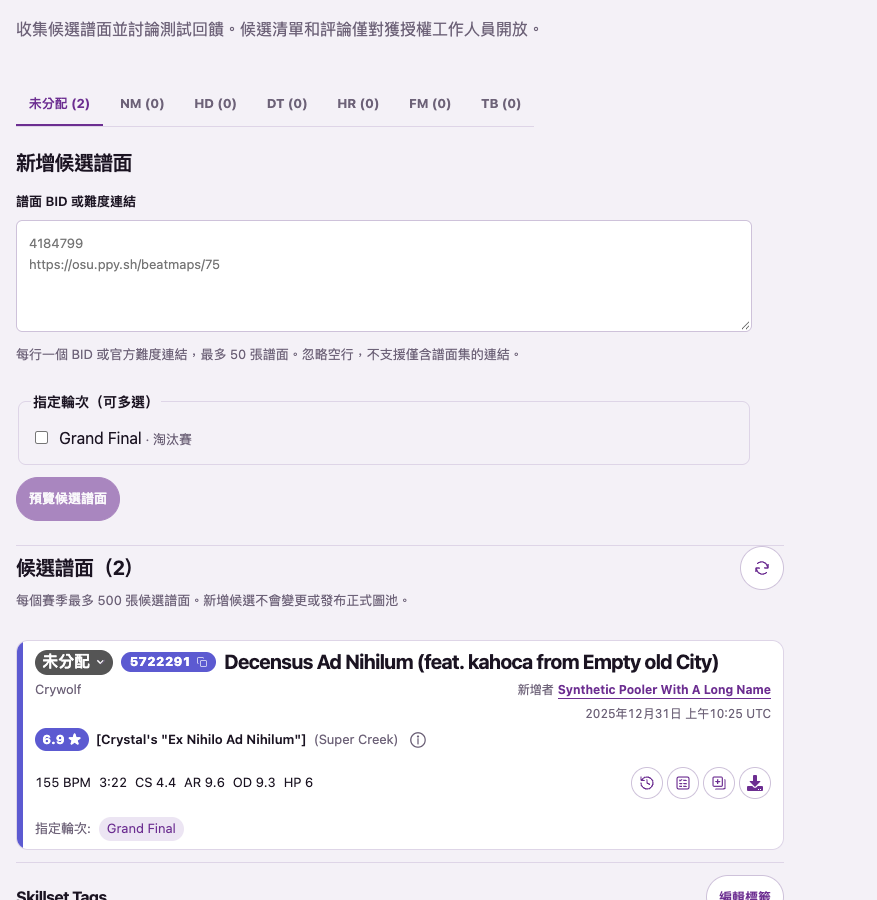
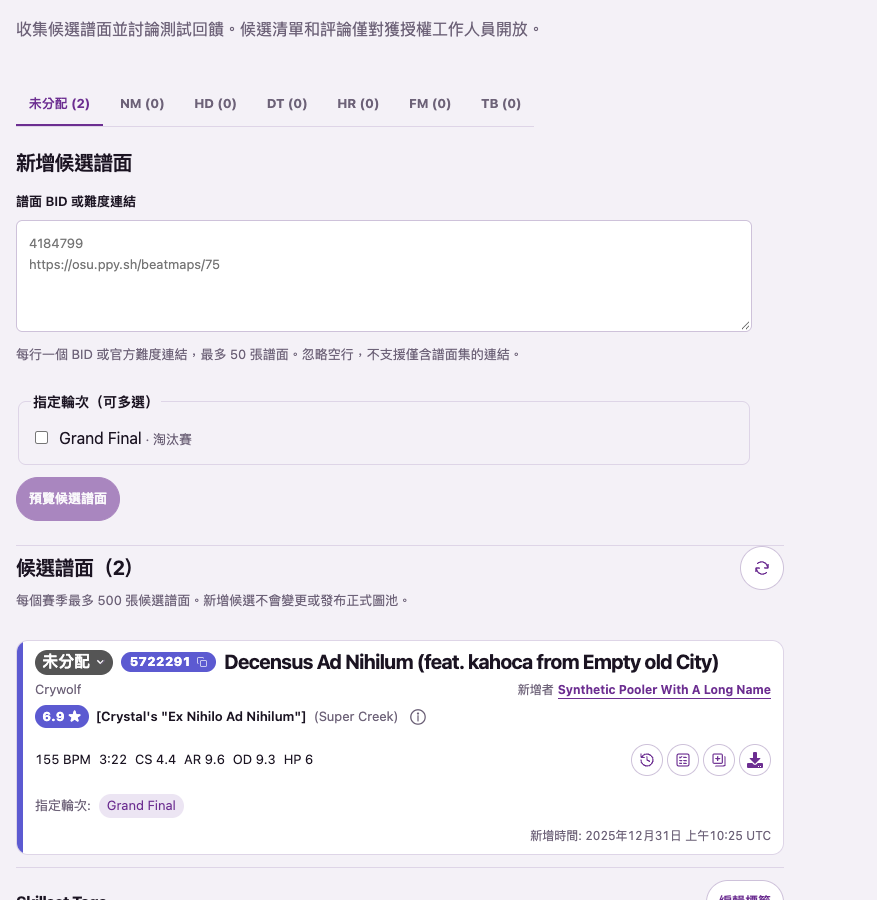
fix(mappool): move candidate creation time to final card row (#965)

Changed region(s): [[0.0, 0.7778, 0.8928, 1.0], [0.6773, 0.7778, 0.862, 0.8089]]

diff --git a/src/components/mappool-workbench.tsx b/src/components/mappool-workbench.tsx
@@ -1062,27 +1062,32 @@ export function SelectionWorkbench({
                     openLabel={`${c.metadata.artist} — ${c.metadata.title}`}
                     note={tr("★ base")}
                     footer={
-                      <div
-                        className={styles.assignedRounds}
-                        role="group"
-                        aria-label={tr("Intended rounds")}
-                      >
-                        <span>{tr("Intended rounds")}:</span>
-                        {c.roundIds.length ? (
-                          data.rounds
-                            .filter((round) => c.roundIds.includes(round.id))
-                            .map((round) => (
-                              <span
-                                key={round.id}
-                                className={styles.assignedRound}
-                              >
-                                {round.name}
-                              </span>
-                            ))
-                        ) : (
-                          <span>{tr("Unassigned")}</span>
-                        )}
-                      </div>
+                      <>
+                        <div
+                          className={styles.assignedRounds}
+                          role="group"
+                          aria-label={tr("Intended rounds")}
+                        >
+                          <span>{tr("Intended rounds")}:</span>
+                          {c.roundIds.length ? (
+                            data.rounds
+                              .filter((round) => c.roundIds.includes(round.id))
+                              .map((round) => (
+                                <span
+                                  key={round.id}
+                                  className={styles.assignedRound}
+                                >
+                                  {round.name}
+                                </span>
+                              ))
+                          ) : (
+                            <span>{tr("Unassigned")}</span>
+                          )}
+                        </div>
+                        <div className={styles.createdAt}>
+                          {tr("Added at")}: <Stamp value={c.createdAt} />
+                        </div>
+                      </>
                     }
                     actions={
                       <>
@@ -1171,17 +1176,14 @@ export function SelectionWorkbench({
                     side={
                       <>
                         <span className={`small muted ${styles.attribution}`}>
-                          <span className={styles.attributionAuthor}>
-                            {tr("Added by")}{" "}
-                            <a
-                              className="text-link"
-                              href={`https://osu.ppy.sh/users/${c.authorId}`}
-                              title={c.authorName}
-                            >
-                              <strong>{c.authorName}</strong>
-                            </a>
-                          </span>{" "}
-                          <Stamp value={c.createdAt} />
+                          {tr("Added by")}{" "}
+                          <a
+                            className="text-link"
+                            href={`https://osu.ppy.sh/users/${c.authorId}`}
+                            title={c.authorName}
+                          >
+                            <strong>{c.authorName}</strong>
+                          </a>
                         </span>
                       </>
                     }

diff --git a/src/components/mappool-workbench.module.css b/src/components/mappool-workbench.module.css
@@ -454,6 +454,13 @@
   background: var(--site-tint);
   color: var(--site-accent);
 }
+.createdAt {
+  padding: 0 0.75rem 0.5rem;
+  color: var(--site-muted);
+  font-size: var(--text-label);
+  text-align: end;
+  overflow-wrap: anywhere;
+}
 .workbenchCard:global(.map-browse-card--band) :global(.map-card-values) {
   flex-wrap: nowrap;
   align-items: center;
@@ -478,19 +485,9 @@
   margin-inline-start: auto;
 }
 .workbenchCard:global(.map-browse-card--band) .attribution {
-  flex-wrap: wrap;
-  justify-content: flex-end;
+  flex-wrap: nowrap;
   max-width: 100%;
   font-size: var(--text-label);
-  text-align: end;
-  white-space: normal;
-}
-.attributionAuthor {
-  display: inline-flex;
-  align-items: baseline;
-  gap: 0.25rem;
-  min-width: 0;
-  max-width: 100%;
   white-space: nowrap;
 }
 .workbenchCard:global(.map-browse-card--band) .attribution a {

diff --git a/docs/verification/issue-965/README.md b/docs/verification/issue-965/README.md
@@ -3,17 +3,21 @@
 Date: 2026-11-06 (Asia/Taipei). Based on main
 `6eda730a65a4be981a28be0d51af17be1d66aa16`.
 
-The organizer requested the creation time beside the author on selection
-workbench candidate cards. `SelectionWorkspace` already supplies the saved
+The organizer requested creation times on selection workbench candidate cards,
+then selected a dedicated final row below the intended rounds. That row is
+right-aligned and labelled **Added at / 新增时间 / 新增時間**; the author stays on
+the artist row. `SelectionWorkspace` already supplies the saved
 candidate `createdAt`; the card now renders it through the same `Stamp` helper
 used for workbench comments. The existing locale-specific date/time format and
 explicit UTC indicator are retained, with an ISO `time[datetime]` value.
 
-Attribution separates the author group from the timestamp and can wrap instead
-of forcing the complete metadata line onto one line. The author's profile link
-and long-name truncation remain available. No new interface messages are needed.
+The timestamp can wrap across the full footer width. The author's profile link
+and long-name truncation retain the existing artist-row presentation. The new
+label uses the standard three-locale message catalogs.
 
 ## Previews
+
+![Timestamp on the final card row](bottom-row-card.png)
 
 The actual `SelectionWorkbench` component uses synthetic candidates. Creation
 time is `2025-12-31T10:25:00Z`, deliberately different from its metadata-fetch and
@@ -22,13 +26,14 @@ workspace snapshot times (`2026-01-01T00:00:00Z`).
 - [Traditional Chinese, light, 877px](zh-Hant-light-877.png)
 - [Traditional Chinese, light, narrower workbench column](zh-Hant-light-877-narrow.png)
 - [Traditional Chinese, dark, 390px](zh-Hant-dark-390.png)
-- [Simplified Chinese, light, 320px](zh-Hans-light-320.png)
-- [English, dark, read-only, 877px](en-dark-877-readonly.png)
+- [Simplified Chinese, light, 320px, multiple rounds](zh-Hans-light-320.png)
+- [English, dark, read-only, 877px, no intended round](en-dark-877-readonly.png)
 
 [Browser results](results.json) record the exact ISO creation timestamp,
 localized visible time with UTC, retained author URL, timestamp containment,
-and page overflow checks. The first four cases also record no script errors and
-zero axe WCAG A/AA violations within the beatmap cards.
+and page overflow checks. All five cases confirm that the time is below the
+entire intended-round group and absent from the artist row, with no script errors
+and zero axe WCAG A/AA violations within the beatmap cards.
 
 The fixture supports `locale=en|zh-Hans|zh-Hant`, `theme=light|dark`, `readOnly`
 and `narrow` on the existing `/workbench-compact` route. HTTP fixtures and artwork
@@ -40,7 +45,8 @@ With Node 24.22.2 and the existing lockfile:
 
 - `npm run check` and `npm run build` passed.
 - `npm test`: 209 files passed / 84 skipped; 1,771 tests passed / 800 skipped,
-  173.00s. Database-dependent cases skipped without an isolated test database.
+  169.47s. Database-dependent cases skipped without an isolated test database.
+- `npm run i18n:extract` and `npm run test:i18n` passed (4 tests).
 - `npm audit --omit=dev`: zero vulnerabilities.
 - Read-API regeneration and `npm run read-api:check` passed (8 tests); the
   generated artifacts have no changes because the timestamp was already in the

diff --git a/docs/mappools.md b/docs/mappools.md
@@ -2,12 +2,13 @@
 
 ## Candidate creation times (#965)
 
-Candidate cards show the original creation time beside the author attribution,
+Candidate cards show the original creation time on their final row below the
+intended rounds, labelled **Added at**,
 using the workbench's existing locale-aware UTC timestamp format and semantic
 `time` element. The value comes from the candidate's saved `createdAt`, distinct
-from metadata refresh or workspace snapshot times. Attribution and time wrap in
-narrow columns while retaining the author's profile link; editable and read-only
-workspaces share the same display.
+from metadata refresh or workspace snapshot times. The timestamp can wrap in
+narrow columns; the author's profile link stays on the artist row. Editable and
+read-only workspaces share the same display.
 
 ## Candidate skillset tags (#735)
 
